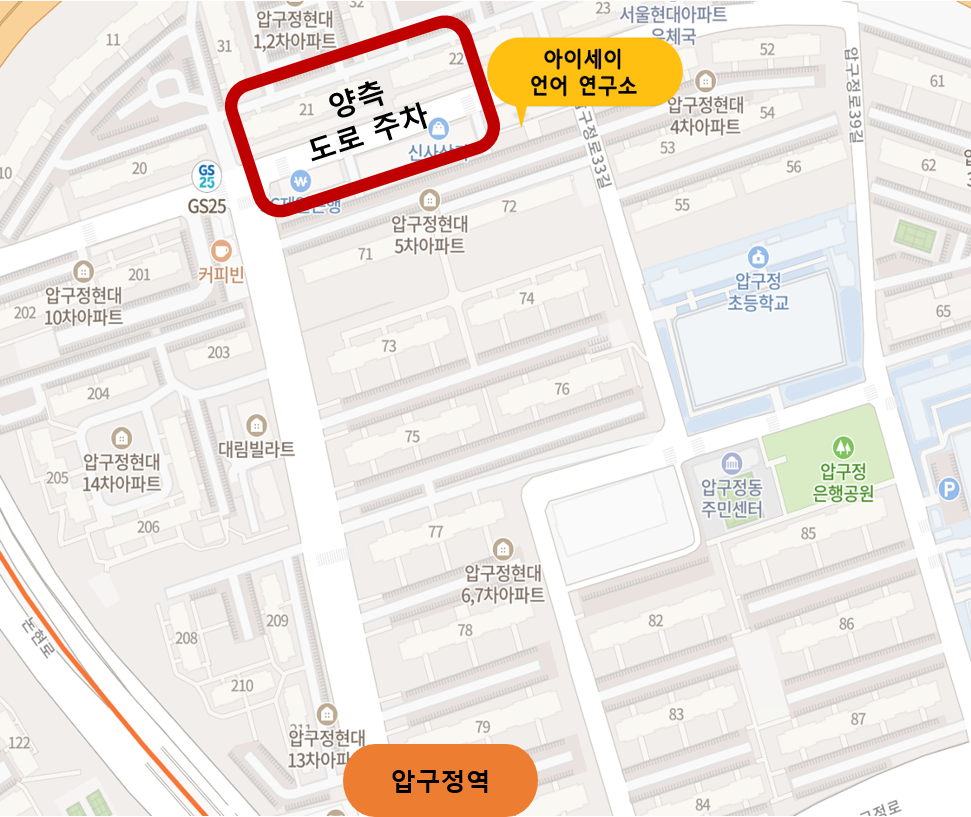
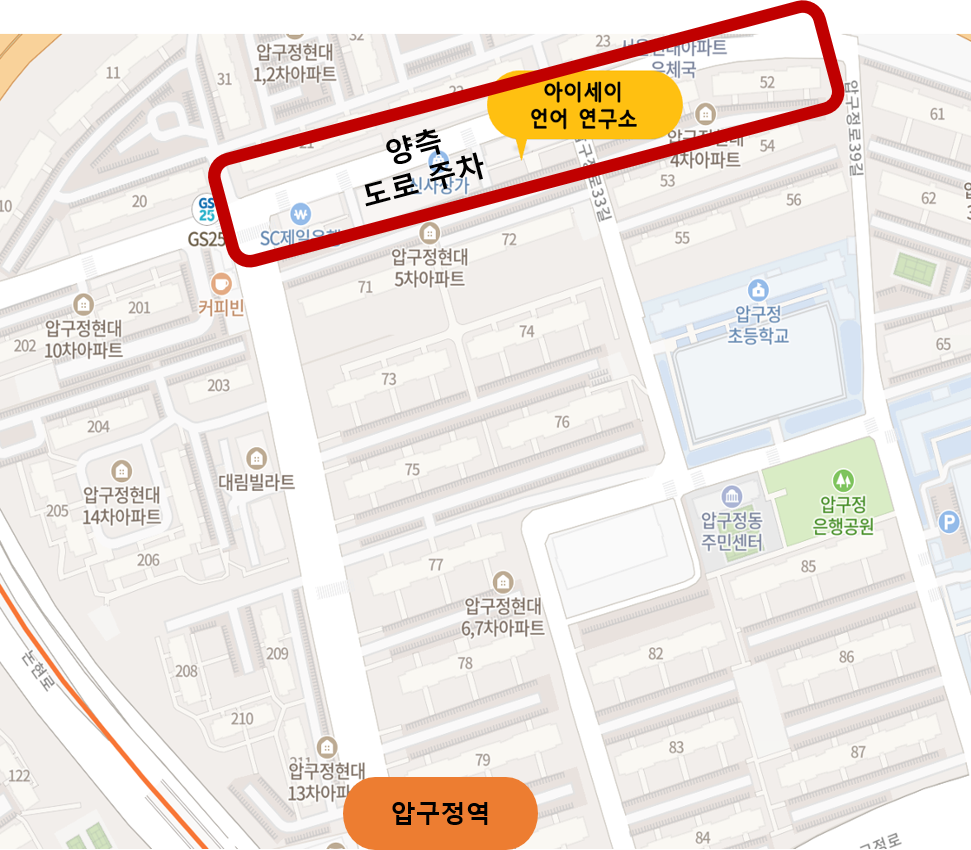
add parking picture

diff --git a/src/components/addPages/lab/DetailPage.js b/src/components/addPages/lab/DetailPage.js
@@ -2,7 +2,7 @@ import React, { useState, useContext } from 'react'
 import styled from 'styled-components'
 import Fade from 'react-reveal/Fade'
 import FadeIn from 'react-fade-in'
-import ProfessorImage from './professor.jpg'
+import ProfessorImage from './dongsunyim.jpeg'
 import ProfessorImage3 from './professor3.jpg'
 import ewha1 from './ewha1.jpeg'
 import ewha2 from './ewha2.jpg'
@@ -14,12 +14,26 @@ import Parking from './parking.png'
 import ParkingEng from './parkingEng.png'
 import img10 from './parking/1.0.png'
 import img10eng from './parking/1.0eng.png'
-import img11 from './parking/1.1.jpg'
-import img12 from './parking/1.2.jpg'
-import img13 from './parking/1.3.jpg'
+import img11 from './parking/1.1.JPG'
+import img12 from './parking/1.2.JPG'
+import img13 from './parking/1.3.JPG'
 import img20 from './parking/2.0.png'
+import img21 from './parking/2.1.JPG'
+import img22 from './parking/2.2.JPG'
+import img23 from './parking/2.3.JPG'
+import img24 from './parking/2.4.jpg'
+import img25 from './parking/2.5.jpg'
 import img30 from './parking/3.0.png'
+import img31 from './parking/3.1.JPG'
+import img32 from './parking/3.2.jpg'
+import img33 from './parking/3.3.JPG'
+import img34 from './parking/3.4.JPG'
+import img35 from './parking/3.5.jpg'
 import img40 from './parking/4.0.png'
+import img41 from './parking/4.1.JPG'
+import img42 from './parking/4.2.JPG'
+import img43 from './parking/4.3.JPG'
+import img44 from './parking/4.4.JPG'
 import img20eng from './parking/2.0eng.png'
 import img30eng from './parking/3.0eng.png'
 import img40eng from './parking/4.0eng.png'
@@ -111,8 +125,8 @@ const WelcomeImage = styled.image`
   background-repeat: no-repeat;
   width: 300px;
   height: 400px;
-  border-radius: 10px;
   margin-bottom: 10px;
+  margin-right: 30px;
 `
 
 const DicImage = styled.image`
@@ -149,7 +163,7 @@ const ParkingImage = styled.image`
   }
 `
 const WelcomeText = styled.div`
-  width: 60%;
+  width: 50%;
   height: 100%;
   border-radius: 10px;
   background-color: white;
@@ -176,7 +190,15 @@ const RowImage = styled.div`
 
 const images = [{ url: ewha1 }, { url: ewha2 }, { url: ewha3 }, { url: ewha4 }]
 const images1 = [{ url: img11 }, { url: img12 }, { url: img13 }]
-
+const images2 = [
+  { url: img21 },
+  { url: img22 },
+  { url: img23 },
+  { url: img24 },
+  { url: img25 },
+]
+const images3 = [{ url: img31 }, { url: img33 }, { url: img34 }]
+const images4 = [{ url: img41 }, { url: img42 }, { url: img43 }, { url: img44 }]
 function DetailPage({ num, lang }) {
   const { Title, Paragraph, Text, Link } = Typography
 
@@ -337,7 +359,7 @@ function DetailPage({ num, lang }) {
                   }}>
                   {lang == 'kor'
                     ? '임동선(대표, 언어재활사)'
-                    : 'Dongsun Yim (CEO, Speech-Language Pathologist) '}
+                    : 'Dongsun Yim (CEO) '}
                 </Title>
               </ColumnWrapper>
             </Fade>
@@ -406,7 +428,7 @@ function DetailPage({ num, lang }) {
               <ColumnWrapper>
                 <WelcomeImage src={ProfessorImage3} />
                 <Title
-                  level={4}
+                  level={5}
                   style={{
                     fontFamily: 'payboocExtraBold',
                     textAlign: 'center',
@@ -665,7 +687,7 @@ function DetailPage({ num, lang }) {
                 <SimpleImageSlider
                   width={280}
                   height={400}
-                  images={images1}
+                  images={images2}
                   showBullets={true}
                   showNavs={true}
                   style={{ marginTop: '10px', marginBottom: '10px' }}
@@ -692,7 +714,7 @@ function DetailPage({ num, lang }) {
                 <SimpleImageSlider
                   width={280}
                   height={400}
-                  images={images1}
+                  images={images3}
                   showBullets={true}
                   showNavs={true}
                   style={{ marginTop: '10px', marginBottom: '10px' }}
@@ -719,7 +741,7 @@ function DetailPage({ num, lang }) {
                 <SimpleImageSlider
                   width={280}
                   height={400}
-                  images={images1}
+                  images={images4}
                   showBullets={true}
                   showNavs={true}
                   style={{ marginTop: '10px', marginBottom: '10px' }}

diff --git a/src/components/addPages/program/ProgramPage.js b/src/components/addPages/program/ProgramPage.js
@@ -105,12 +105,15 @@ function ProgramPage({ match }) {
             <TextColumnWrapper>
               <TextWrapper size="25">
                 {' '}
-                프로그램 소개 <br />
+                {lang == 'kor' ? ' 프로그램 소개' : 'Program'}
+                <br />
                 <br />{' '}
               </TextWrapper>
               <TextWrapper size="17">
                 {' '}
-                ISayLab의 프로그램을 소개합니다.{' '}
+                {lang == 'kor'
+                  ? ' ISayLab의 프로그램을 소개합니다.'
+                  : 'Look around the ISayLab`s program.'}{' '}
               </TextWrapper>
             </TextColumnWrapper>
           </ImageWrapper>
@@ -131,7 +134,9 @@ function ProgramPage({ match }) {
                 backgroundColor: '#F9BE00',
                 marginBottom: '1px',
               }}>
-              언어발달 평가 및 언어지원
+              {lang == 'kor'
+                ? '언어발달 평가 및 언어지원'
+                : 'Language development evaluation'}
             </Button>
             <Button
               onClick={() => {
@@ -148,7 +153,9 @@ function ProgramPage({ match }) {
                 backgroundColor: '#F9BE00',
                 marginBottom: '1px',
               }}>
-              언어발달 전문가와 함께 하는 책읽기
+              {lang == 'kor'
+                ? '언어발달 전문가와 함께 하는 책읽기'
+                : 'Book reading with experts'}
             </Button>
             <Button
               onClick={() => {
@@ -165,7 +172,9 @@ function ProgramPage({ match }) {
                 backgroundColor: '#F9BE00',
                 marginBottom: '1px',
               }}>
-              자녀의 언어발달을 촉진하기 위한 부모 코칭
+              {lang == 'kor'
+                ? '자녀의 언어발달을 촉진하기 위한 부모 코칭'
+                : 'Parent coaching '}
             </Button>
             <Button
               onClick={() => {
@@ -182,7 +191,9 @@ function ProgramPage({ match }) {
                 backgroundColor: '#F9BE00',
                 marginBottom: '1px',
               }}>
-              언어발달 관련 영역 전문가 교육
+              {lang == 'kor'
+                ? '언어발달 관련 영역 전문가 교육'
+                : 'Language area expert training'}
             </Button>
             <Button
               onClick={() => {
@@ -199,7 +210,9 @@ function ProgramPage({ match }) {
                 backgroundColor: '#F9BE00',
                 marginBottom: '1px',
               }}>
-              주말프로그램: 책과 함께하는 휴식 시간
+              {lang == 'kor'
+                ? '주말프로그램: 책과 함께하는 휴식 시간'
+                : 'Weekend: Break Time with Books'}
             </Button>
             <Button
               onClick={() => {
@@ -216,7 +229,9 @@ function ProgramPage({ match }) {
                 backgroundColor: '#F9BE00',
                 marginBottom: '1px',
               }}>
-              특별프로그램: 여름/겨울방학 책읽기 캠프
+              {lang == 'kor'
+                ? ' 특별프로그램: 여름/겨울방학 책읽기 캠프'
+                : 'Special: Summer/Winter Vacation Reading Camp'}
             </Button>
           </ColumnWrapper>
         </RowWrapper>

diff --git a/src/components/addPages/board/BoardPage.js b/src/components/addPages/board/BoardPage.js
@@ -152,12 +152,15 @@ function BoardPage({ match }) {
             <TextColumnWrapper>
               <TextWrapper size="25">
                 {' '}
-                연구소 게시판 <br />
+                {lang == 'kor' ? ' 연구소 게시판' : 'Board'}
+                <br />
                 <br />{' '}
               </TextWrapper>
               <TextWrapper size="18">
                 {' '}
-                ISayLab 새로운 소식을 확인해보세요.{' '}
+                {lang == 'kor'
+                  ? ' ISayLab 새로운 소식을 확인해보세요.'
+                  : 'Check out ISayLAb`s news.'}{' '}
               </TextWrapper>
             </TextColumnWrapper>
           </ImageWrapper>

diff --git a/src/components/MenuBar.js b/src/components/MenuBar.js
@@ -59,7 +59,7 @@ function MenuBar({ change }) {
             fontSize: '25px',
             fontWeight: '600',
           }}
-          href="/">
+          href="/main/kor">
           {' '}
           <img src="/002.png" width="50px" height="50px" />
         </a>
@@ -135,7 +135,7 @@ function MenuBar({ change }) {
             fontSize: '25px',
             fontWeight: '600',
           }}
-          href="/">
+          href="/main/eng">
           {' '}
           <img src="/002.png" width="50px" height="50px" />
         </a>

diff --git a/src/components/home/HomeMain.js b/src/components/home/HomeMain.js
@@ -206,7 +206,7 @@ function HomeMain({ match }) {
                   </Title>
                 </Paragraph>
                 <Button
-                  onClick={() => history.push(`/lab`)}
+                  onClick={() => history.push(`/lab/kor`)}
                   style={{
                     borderColor: 'goldenrod',
                     color: 'goldenrod',
